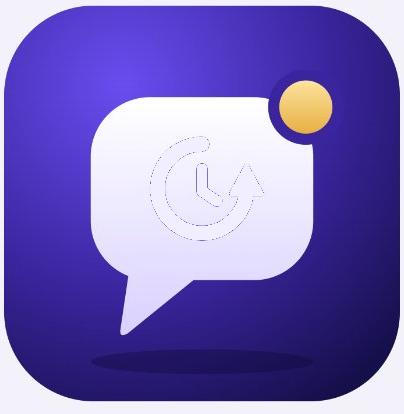
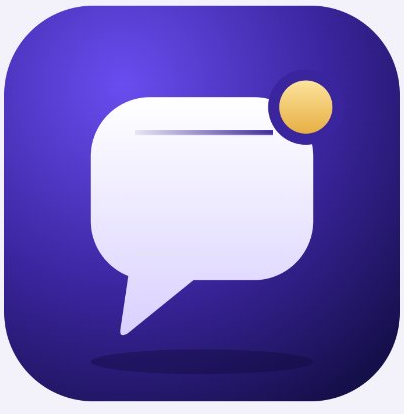
Remove outer blue ring around clock and remove residual white mark in speech bubble

Changed region(s): [[0.3564, 0.2899, 0.6832, 0.3478]]

diff --git a/styles.css b/styles.css
@@ -1392,16 +1392,7 @@ button:focus-visible,a:focus-visible,input:focus-visible,select:focus-visible,te
   overflow: visible;
 }
 
-/* 1. CLOCK BOUNDARY & BODY: Initially WHITE with visible boundary -> turns BLUE over 3.4s */
-.hero-clock-outer-boundary {
-  fill: none;
-  stroke: #ffffff;
-  stroke-width: 2.2;
-  opacity: 0.95;
-  filter: drop-shadow(0 0 2px rgba(28, 16, 75, 0.65)) drop-shadow(0 2px 4px rgba(0, 0, 0, 0.2));
-  animation: clockBoundaryTransition 3.4s cubic-bezier(0.4, 0, 0.2, 1) forwards;
-}
-
+/* 1. CLOCK BODY & REWIND ARROW: Initially WHITE -> turns BLUE over 3.4s */
 .hero-clock-track {
   fill: none;
   stroke: #ffffff;
@@ -1418,29 +1409,6 @@ button:focus-visible,a:focus-visible,input:focus-visible,select:focus-visible,te
   stroke-linejoin: round;
   filter: drop-shadow(0 0 2px rgba(28, 16, 75, 0.65));
   animation: clockArrowTransition 3.4s cubic-bezier(0.4, 0, 0.2, 1) forwards;
-}
-
-@keyframes clockBoundaryTransition {
-  0% {
-    stroke: #ffffff;
-    opacity: 0.95;
-    filter: drop-shadow(0 0 2px rgba(28, 16, 75, 0.65)) drop-shadow(0 2px 4px rgba(0, 0, 0, 0.2));
-  }
-  25% {
-    stroke: #ffffff;
-    opacity: 0.95;
-    filter: drop-shadow(0 0 2px rgba(28, 16, 75, 0.65)) drop-shadow(0 2px 4px rgba(0, 0, 0, 0.2));
-  }
-  65% {
-    stroke: #4d77f7;
-    opacity: 0.9;
-    filter: drop-shadow(0 0 5px rgba(59, 130, 246, 0.6));
-  }
-  100% {
-    stroke: #2563eb;
-    opacity: 1;
-    filter: drop-shadow(0 0 8px rgba(37, 99, 235, 0.75));
-  }
 }
 
 @keyframes clockColorTransition {

diff --git a/index.html b/index.html
@@ -33,9 +33,6 @@
           <!-- Animated Clock positioned right inside the speech bubble of the app icon -->
           <div class="hero-motion-clock-container">
             <svg class="hero-motion-clock-svg" viewBox="0 0 100 100" fill="none" xmlns="http://www.w3.org/2000/svg" role="img" aria-label="Clock transformation animation">
-              <!-- Outer boundary: Initially white with visible boundary -> turns blue -->
-              <circle class="hero-clock-outer-boundary" cx="49" cy="50" r="46"/>
-
               <!-- Circular track body with rewind arrow: Initially white -> turns blue -->
               <g class="hero-clock-body">
                 <path class="hero-clock-track" d="M 47 13 A 37 37 0 1 0 85 41"/>

diff --git a/app.js b/app.js
@@ -680,7 +680,7 @@ function initHeroMotion() {
       }
       const svg = heroPage.querySelector(".hero-motion-clock-svg");
       if (svg) {
-        const animatedEls = svg.querySelectorAll(".hero-clock-outer-boundary, .hero-clock-track, .hero-clock-arrow, .hero-clock-pivot, .hero-hour-hand, .hero-minute-hand");
+        const animatedEls = svg.querySelectorAll(".hero-clock-track, .hero-clock-arrow, .hero-clock-pivot, .hero-hour-hand, .hero-minute-hand");
         animatedEls.forEach((el) => {
           el.style.animation = "none";
           el.offsetHeight;
